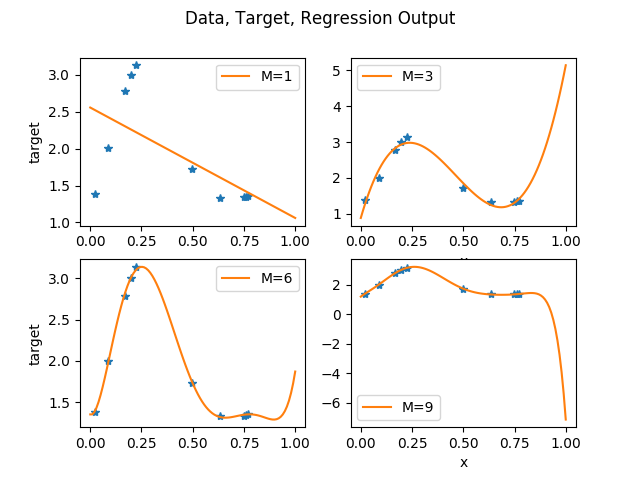
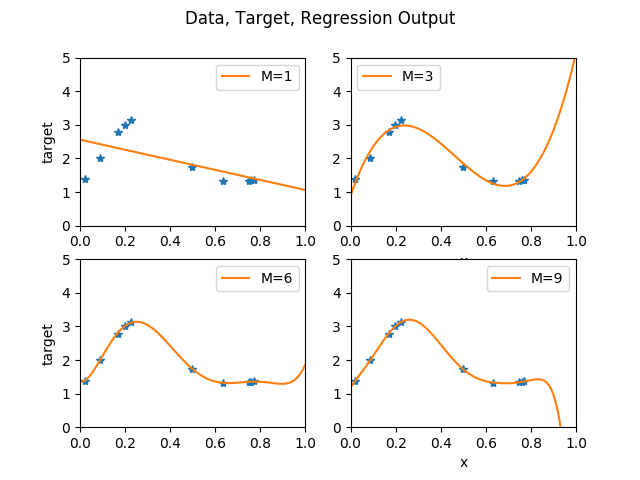
adding results

diff --git a/pa1new.py b/pa1new.py
@@ -6,8 +6,10 @@ import matplotlib.pyplot as plt
 
 np.random.seed(seed=42)
 
+# Compute class prior
 def getPrior(y) :
     unique, counts = np.unique(y, return_counts=True)
+    # print(unique)
     return unique, np.array(counts/sum(counts)).reshape(1,-1)
 
 # According to MLE, estimate mean of distribution using sample mean
@@ -18,10 +20,11 @@ def getMLE(X,y) :
         means.append(np.mean(X[np.where(y==class_val)],axis=0))
     return means
 
-
+# Compute the risk for each class
 def getRisk(lossfunction, classConditional, prior) :
     return np.transpose(np.matmul(lossfunction,np.transpose(np.multiply(classConditional,prior))))
 
+# Compute class conditional density where covariance is same for all classes
 def getConditionalSameCov(X, mu, sigma, mode):
     prob = []
     for class_val in range(mu.shape[0]) :
@@ -34,6 +37,8 @@ def getConditionalSameCov(X, mu, sigma, mode):
         prob.append(value)
     return np.transpose(np.array(prob))
 
+
+# Compute class conditional density where covariance is different for all classes
 def getConditionalDiffCov(X, mu, sigma, mode):
     prob = []
     for class_val in range(mu.shape[0]) :
@@ -46,6 +51,7 @@ def getConditionalDiffCov(X, mu, sigma, mode):
         prob.append(value)
     return np.transpose(np.array(prob))
 
+# Compute confusion matrix
 def getConfusion(y_test, prediction, name) :
     # confusion matrix for test
     cnf_matrix = confusion_matrix(y_test, prediction)
@@ -58,7 +64,7 @@ def getConfusion(y_test, prediction, name) :
     # plt.show()
     return
 
-# compute for test set
+# compute posterior
 def getModel(X, y, means, cov, lossfunction, prior, mode, covmode) :
     if covmode == "same":
         classConditional = getConditionalSameCov(X, means, cov, mode)
@@ -77,6 +83,7 @@ def mean(X):
     mean_x = mean_x/n
     return mean_x
 
+# Compute covariance of single feature of particular class
 def getCovariance(X1, X2):
     Z = []
     n = len(X1)
@@ -88,6 +95,7 @@ def getCovariance(X1, X2):
     cov = e_x1x2 - (e_x1*e_x2)
     return cov
 
+# Compute covariance for single class
 def getCovMatrix(X):
     n = len(X)
     cov_mat = []
@@ -96,6 +104,7 @@ def getCovMatrix(X):
             cov_mat.append(getCovariance(X[i], X[j]))
     return np.reshape(cov_mat, (n, n))
 
+# Compute covariance matrix for all classes
 def getCompleteCovMatrix(X, y):
     unique = np.unique(y, return_counts=False)
     covs = []
@@ -107,10 +116,13 @@ def getCompleteCovMatrix(X, y):
 data1 = np.loadtxt("../Datasets_PRML_A1/Dataset_1_Team_39.csv", delimiter=',', dtype=None)
 data2 = np.loadtxt("../Datasets_PRML_A1/Dataset_2_Team_39.csv", delimiter=',', dtype=None)
 
+best_model_1 = [0]
+best_model_2 = [0]
+
 # shuffling
 np.random.shuffle(data1)
 
-# splitting into train, test, validation - 80, 10, 10 and converting to numpy array
+# splitting into train, test, validation - 70, 15, 15
 train_size = int(0.7*data1.shape[0])
 val_size = int(0.15*data1.shape[0])
 test_size = int(0.15*data1.shape[0])
@@ -133,76 +145,91 @@ lossfunction = np.array([[0,1,2],[1,0,1],[2,1,0]])
 
 print("\n")
 
-accuracies = []
+train_accuracies = []
+val_accuracies = []
 
 print("Model 1 - Naive Bayes and covariance is identity")
 prediction, accuracy =  getModel(X_train, y_train, means, np.eye(2), lossfunction, prior, "naive", "same")
+train_accuracies.append(accuracy)
 print("Train accuracy {:.2f}".format(accuracy))
-accuracies.append(accuracy)
 prediction, accuracy =  getModel(X_val, y_val, means, np.eye(2), lossfunction, prior, "naive", "same")
 print("Validation accuracy {:.2f}".format(accuracy))
+val_accuracies.append(accuracy)
+if best_model_1[0] < accuracy :
+    best_model_1 = [accuracy, "naive", "same covariance - identity"]
 prediction, accuracy =  getModel(X_test, y_test, means, np.eye(2), lossfunction, prior, "naive", "same")
 print("Test accuracy {:.2f}".format(accuracy))
-getConfusion(y_test,prediction, "Model 1 Dataset 1")
+# getConfusion(y_test,prediction, "Model 1 Dataset 1")
 
 print("\n")
-
 
 print("Model 2 - Naive Bayes and covariance is same")
 cov_rand = getCovMatrix(np.transpose(X_train))
 prediction, accuracy =  getModel(X_train, y_train, means, cov_rand, lossfunction, prior, "naive", "same")
+train_accuracies.append(accuracy)
 print("Train accuracy {:.2f}".format(accuracy))
-accuracies.append(accuracy)
 prediction, accuracy =  getModel(X_val, y_val, means, cov_rand, lossfunction, prior, "naive", "same")
 print("Validation accuracy {:.2f}".format(accuracy))
+val_accuracies.append(accuracy)
+if best_model_1[0] < accuracy :
+    best_model_1 = [accuracy, "naive", "same covariance"]
 prediction, accuracy =  getModel(X_test, y_test, means, cov_rand, lossfunction, prior, "naive", "same")
 print("Test accuracy {:.2f}".format(accuracy))
+plt.subplot(121)
 getConfusion(y_test,prediction, "Model 2 Dataset 1")
 
 print("\n")
 
-
 print("Model 3 - Naive Bayes and covariance different")
 cov_rand = getCompleteCovMatrix(X_train, y_train)
 prediction, accuracy =  getModel(X_train, y_train, means, cov_rand, lossfunction, prior, "naive", "diff")
+train_accuracies.append(accuracy)
 print("Train accuracy {:.2f}".format(accuracy))
-accuracies.append(accuracy)
 prediction, accuracy =  getModel(X_val, y_val, means, cov_rand, lossfunction, prior, "naive", "diff")
 print("Validation accuracy {:.2f}".format(accuracy))
+val_accuracies.append(accuracy)
+if best_model_1[0] < accuracy :
+    best_model_1 = [accuracy, "naive", "different covariance"]
 prediction, accuracy =  getModel(X_test, y_test, means, cov_rand, lossfunction, prior, "naive", "diff")
 print("Test accuracy {:.2f}".format(accuracy))
-getConfusion(y_test,prediction, "Model 3 Dataset 1")
+# getConfusion(y_test,prediction, "Model 3 Dataset 1")
 
 print("\n")
-
 
 print("Model 4 -  Bayes and covariance is same")
 cov_rand = getCovMatrix(np.transpose(X_train))
 prediction, accuracy =  getModel(X_train, y_train, means, cov_rand, lossfunction, prior, "bayes", "same")
+train_accuracies.append(accuracy)
 print("Train accuracy {:.2f}".format(accuracy))
-accuracies.append(accuracy)
 prediction, accuracy =  getModel(X_val, y_val, means, cov_rand, lossfunction, prior, "bayes", "same")
 print("Validation accuracy {:.2f}".format(accuracy))
+val_accuracies.append(accuracy)
+if best_model_1[0] < accuracy :
+    best_model_1 = [accuracy, "bayes", "same covariance"]
 prediction, accuracy =  getModel(X_test, y_test, means, cov_rand, lossfunction, prior, "bayes", "same")
 print("Test accuracy {:.2f}".format(accuracy))
-getConfusion(y_test,prediction, "Model 4 Dataset 1")
+# getConfusion(y_test,prediction, "Model 4 Dataset 1")
 
 print("\n")
 
 print("Model 5 - Bayes and covariance is different")
 cov_rand = getCompleteCovMatrix(X_train, y_train)
 prediction, accuracy =  getModel(X_train, y_train, means, cov_rand, lossfunction, prior, "bayes", "diff")
+train_accuracies.append(accuracy)
 print("Train accuracy {:.2f}".format(accuracy))
-accuracies.append(accuracy)
 prediction, accuracy =  getModel(X_val, y_val, means, cov_rand, lossfunction, prior, "bayes", "diff")
 print("Validation accuracy {:.2f}".format(accuracy))
+val_accuracies.append(accuracy)
+if best_model_1[0] < accuracy :
+    best_model_1 = [accuracy, "bayes", "different covariance"]
 prediction, accuracy =  getModel(X_test, y_test, means, cov_rand, lossfunction, prior, "bayes", "diff")
 print("Test accuracy {:.2f}".format(accuracy))
-getConfusion(y_test,prediction, "Model 5 Dataset 1")
+# getConfusion(y_test,prediction, "Model 5 Dataset 1")
 
 print("\n")
 
-np.savetxt('results/accuracy_of_models_dataset_1',accuracies,fmt='%.2f')
+np.savetxt('results/accuracy_of_training_dataset_1',train_accuracies,fmt='%.2f')
+np.savetxt('results/accuracy_of_validation_dataset_1',val_accuracies,fmt='%.2f')
 
 # shuffling
 np.random.shuffle(data2)
@@ -234,13 +261,16 @@ accuracies = []
 
 print("Model 1 - Naive Bayes and covariance is identity")
 prediction, accuracy =  getModel(X_train, y_train, means, np.eye(2), lossfunction, prior, "naive", "same")
+train_accuracies.append(accuracy)
 print("Train accuracy {:.2f}".format(accuracy))
-accuracies.append(accuracy)
 prediction, accuracy =  getModel(X_val, y_val, means, np.eye(2), lossfunction, prior, "naive", "same")
 print("Validation accuracy {:.2f}".format(accuracy))
+val_accuracies.append(accuracy)
+if best_model_2[0] < accuracy :
+    best_model_2 = [accuracy, "naive", "same covariance - identity"]
 prediction, accuracy =  getModel(X_test, y_test, means, np.eye(2), lossfunction, prior, "naive", "same")
 print("Test accuracy {:.2f}".format(accuracy))
-getConfusion(y_test,prediction, "Model 1 Dataset 2")
+# getConfusion(y_test,prediction, "Model 1 Dataset 2")
 
 print("\n")
 
@@ -248,13 +278,16 @@ print("\n")
 print("Model 2 - Naive Bayes and covariance is same")
 cov_rand = getCovMatrix(np.transpose(X_train))
 prediction, accuracy =  getModel(X_train, y_train, means, cov_rand, lossfunction, prior, "naive", "same")
+train_accuracies.append(accuracy)
 print("Train accuracy {:.2f}".format(accuracy))
-accuracies.append(accuracy)
 prediction, accuracy =  getModel(X_val, y_val, means, cov_rand, lossfunction, prior, "naive", "same")
 print("Validation accuracy {:.2f}".format(accuracy))
+val_accuracies.append(accuracy)
+if best_model_2[0] < accuracy :
+    best_model_2 = [accuracy, "naive", "same covariance"]
 prediction, accuracy =  getModel(X_test, y_test, means, cov_rand, lossfunction, prior, "naive", "same")
 print("Test accuracy {:.2f}".format(accuracy))
-getConfusion(y_test,prediction, "Model 2 Dataset 2")
+# getConfusion(y_test,prediction, "Model 2 Dataset 2")
 
 print("\n")
 
@@ -262,13 +295,16 @@ print("\n")
 print("Model 3 - Naive Bayes and covariance different")
 cov_rand = getCompleteCovMatrix(X_train, y_train)
 prediction, accuracy =  getModel(X_train, y_train, means, cov_rand, lossfunction, prior, "naive", "diff")
+train_accuracies.append(accuracy)
 print("Train accuracy {:.2f}".format(accuracy))
-accuracies.append(accuracy)
 prediction, accuracy =  getModel(X_val, y_val, means, cov_rand, lossfunction, prior, "naive", "diff")
 print("Validation accuracy {:.2f}".format(accuracy))
+val_accuracies.append(accuracy)
+if best_model_2[0] < accuracy :
+    best_model_2 = [accuracy, "naive", "different covariance"]
 prediction, accuracy =  getModel(X_test, y_test, means, cov_rand, lossfunction, prior, "naive", "diff")
 print("Test accuracy {:.2f}".format(accuracy))
-getConfusion(y_test,prediction, "Model 3 Dataset 2")
+# getConfusion(y_test,prediction, "Model 3 Dataset 2")
 
 print("\n")
 
@@ -276,27 +312,39 @@ print("\n")
 print("Model 4 -  Bayes and covariance is same")
 cov_rand = getCovMatrix(np.transpose(X_train))
 prediction, accuracy =  getModel(X_train, y_train, means, cov_rand, lossfunction, prior, "bayes", "same")
+train_accuracies.append(accuracy)
 print("Train accuracy {:.2f}".format(accuracy))
-accuracies.append(accuracy)
 prediction, accuracy =  getModel(X_val, y_val, means, cov_rand, lossfunction, prior, "bayes", "same")
 print("Validation accuracy {:.2f}".format(accuracy))
+val_accuracies.append(accuracy)
+if best_model_2[0] < accuracy :
+    best_model_2 = [accuracy, "bayes", "same covariance"]
 prediction, accuracy =  getModel(X_test, y_test, means, cov_rand, lossfunction, prior, "bayes", "same")
 print("Test accuracy {:.2f}".format(accuracy))
-getConfusion(y_test,prediction, "Model 4 Dataset 2")
+# getConfusion(y_test,prediction, "Model 4 Dataset 2")
 
 print("\n")
 
 print("Model 5 - Bayes and covariance is different")
 cov_rand = getCompleteCovMatrix(X_train, y_train)
 prediction, accuracy =  getModel(X_train, y_train, means, cov_rand, lossfunction, prior, "bayes", "diff")
+train_accuracies.append(accuracy)
 print("Train accuracy {:.2f}".format(accuracy))
-accuracies.append(accuracy)
 prediction, accuracy =  getModel(X_val, y_val, means, cov_rand, lossfunction, prior, "bayes", "diff")
 print("Validation accuracy {:.2f}".format(accuracy))
+val_accuracies.append(accuracy)
+if best_model_2[0] < accuracy :
+    best_model_2 = [accuracy, "bayes", "different covariance"]
 prediction, accuracy =  getModel(X_test, y_test, means, cov_rand, lossfunction, prior, "bayes", "diff")
 print("Test accuracy {:.2f}".format(accuracy))
+plt.subplot(122)
 getConfusion(y_test,prediction, "Model 5 Dataset 2")
 
 print("\n")
 
-np.savetxt('results/accuracy_of_models_dataset_2',accuracies,fmt='%.2f')
+print("The best model for dataset 1 has validation accuracy ",best_model_1)
+print("The best model for dataset 2 has validation accuracy ",best_model_2)
+np.savetxt('results/accuracy_of_training_dataset_2',train_accuracies,fmt='%.2f')
+np.savetxt('results/accuracy_of_validation_dataset_2',val_accuracies,fmt='%.2f')
+
+plt.show()

diff --git a/surface3d_demo.py b/surface3d_demo.py
@@ -1,0 +1,28 @@
+import numpy as np
+import matplotlib.pyplot as plt
+from scipy.stats import multivariate_normal
+from mpl_toolkits.mplot3d import Axes3D
+
+#Parameters to set
+mu_x = 0
+variance_x = 3
+
+mu_y = 0
+variance_y = 15
+
+#Create grid and multivariate normal
+x = np.linspace(-10,10,500)
+y = np.linspace(-10,10,500)
+X, Y = np.meshgrid(x,y)
+pos = np.empty(X.shape + (2,))
+pos[:, :, 0] = X; pos[:, :, 1] = Y
+rv = multivariate_normal([mu_x, mu_y], [[variance_x, 0], [0, variance_y]])
+
+#Make a 3D plot
+fig = plt.figure()
+ax = fig.gca(projection='3d')
+ax.plot_surface(X, Y, rv.pdf(pos),cmap='viridis',linewidth=0)
+ax.set_xlabel('X axis')
+ax.set_ylabel('Y axis')
+ax.set_zlabel('Z axis')
+plt.show()

diff --git a/regression.py b/regression.py
@@ -45,7 +45,7 @@ all_degrees = np.linspace(0,9,10).astype(int)
 fig = 221
 rmses = []
 
-default = 0
+default = 1
 if default :
     ridges = [0]
     sizes = [10]
@@ -77,6 +77,8 @@ for degree in degrees :
                 np.savetxt("results/coefficients/"+str(degree)+".txt",w,newline=" ")
                 M = "M="+str(degree)
                 plt.plot(x, y_func,label=M)
+                plt.ylim(0, 5)
+                plt.xlim(0,1)
                 plt.legend()
 
                 figure.suptitle("Data, Target, Regression Output")

diff --git a/confusion_matrix.py b/confusion_matrix.py
@@ -20,7 +20,6 @@ def plot_confusion_matrix(cm, classes,
         # print('Confusion matrix, without normalization')
 
     # print(cm)
-
     plt.imshow(cm, interpolation='nearest', cmap=cmap)
     plt.title(title)
     plt.colorbar()
